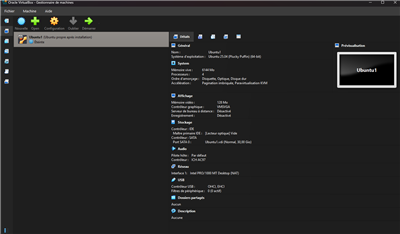
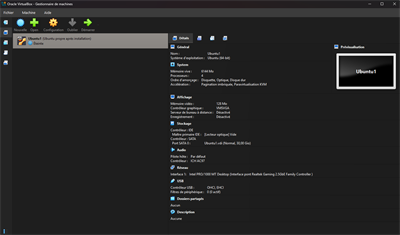
Remplace la capture du bureau Ubuntu par une preuve SSH et DNS
Les deux captures du projet 02 montraient la meme chose : que la VM
existe. Le texte revendique des connexions SSH et une configuration
DNS, sans rien pour l appuyer.

La nouvelle capture montre la session ouverte depuis PowerShell, le
service ssh actif et active au demarrage, et un dig qui resout le nom
serveur.labo servi par dnsmasq. Le bureau Ubuntu, lui, n apprenait
rien sur le travail reellement fait.

Recapture aussi la configuration VirtualBox : elle affichait encore le
profil Ubuntu 25.04 et une carte en NAT, alors que la VM tourne en
acces par pont sous 26.04 LTS. Sans ca, les deux images se
contredisaient une fois ouvertes en grand.

Changed region(s): [[0.0, 0.0, 1.0, 0.9573], [0.81, 0.1795, 1.0, 0.3889], [0.0, 0.9573, 0.03, 1.0]]

diff --git a/index.html b/index.html
@@ -118,17 +118,17 @@
           <p class="project__kicker">Préparer ma rentrée en SISR avec un labo à moi.</p>
           <div class="project__tools">
             <span class="tag">VirtualBox / VM</span>
-            <span class="tag">Ubuntu 25.04</span>
+            <span class="tag">Ubuntu 26.04 LTS</span>
             <span class="tag">Bash</span>
             <span class="tag">SSH</span>
             <span class="tag">DNS</span>
           </div>
           <div class="project__shots">
             <a class="shot shot--land" href="media/vm-config.png" data-lightbox>
-              <img src="media/vm-config-thumb.png" alt="Configuration de la machine virtuelle dans VirtualBox : Ubuntu 25.04 64 bits, 6 Go de mémoire vive, 4 processeurs, disque de 30 Go et carte réseau en NAT" width="400" height="234" loading="lazy">
+              <img src="media/vm-config-thumb.png" alt="Configuration de la machine virtuelle dans VirtualBox : Ubuntu 64 bits, 6 Go de mémoire vive, 4 processeurs, disque de 30 Go et carte réseau en accès par pont" width="400" height="235" loading="lazy">
             </a>
-            <a class="shot shot--land" href="media/vm-bureau.jpg" data-lightbox>
-              <img src="media/vm-bureau-thumb.jpg" alt="Le bureau Ubuntu 25.04 en fonctionnement dans VirtualBox, après installation du système" width="400" height="224" loading="lazy">
+            <a class="shot shot--land" href="media/vm-ssh.png" data-lightbox>
+              <img src="media/vm-ssh-thumb.png" alt="Session SSH ouverte depuis Windows vers la machine virtuelle : le service ssh est actif et activé au démarrage, et une requête dig résout le nom serveur.labo configuré dans dnsmasq" width="400" height="238" loading="lazy">
             </a>
           </div>
         </div>
